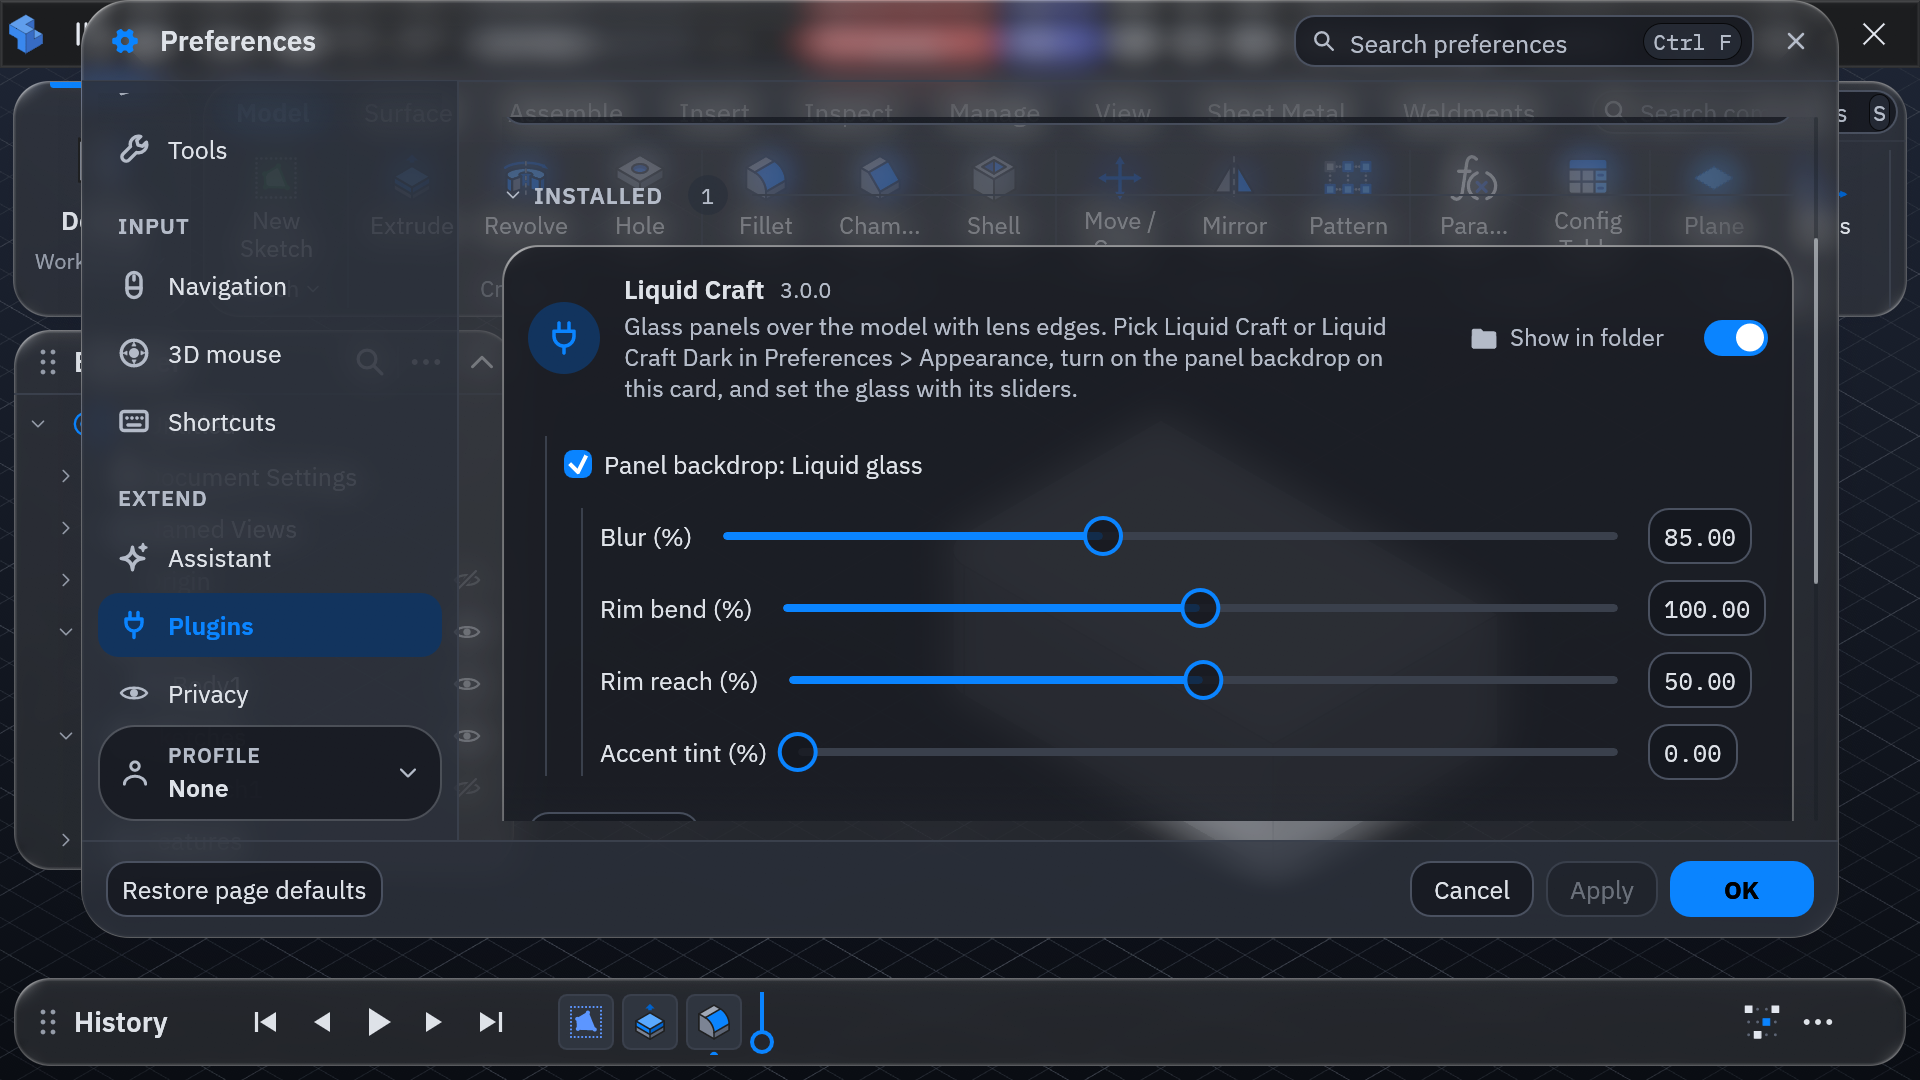
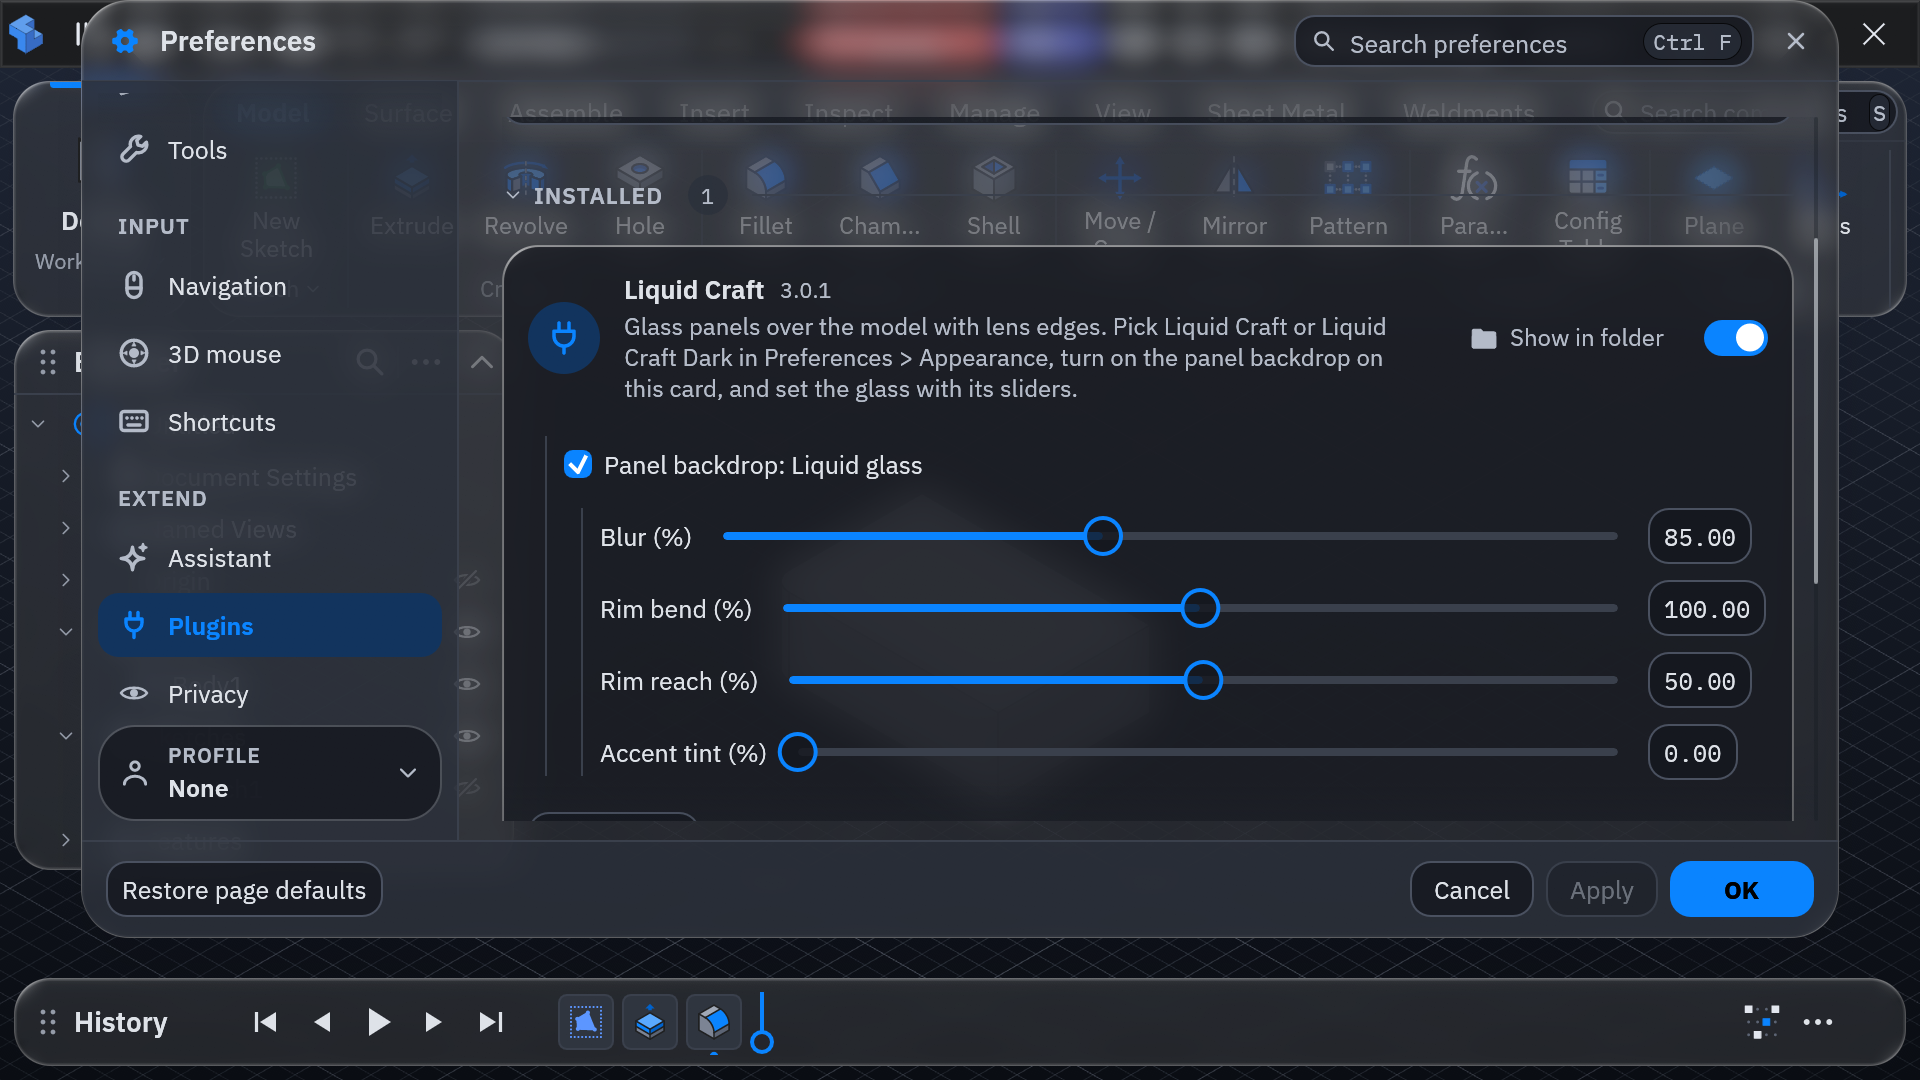
liquid-craft 3.0.1: README explains the idle view toolbar fade (not an app bug)

Changed region(s): [[0.5938, 0.7333, 0.7188, 0.7944]]

diff --git a/README.md b/README.md
@@ -1,4 +1,4 @@
-# Liquid Craft 3.0.0
+# Liquid Craft 3.0.1
 
 ![screenshot](screenshots/showcase-dark.png)
 
@@ -45,16 +45,13 @@ The card shows the values as plain numbers with two decimals.
 - No text colour flip or halo: text does not change colour with the brightness behind it.
   The theme fills were made more transparent so text stays readable on both themes.
 - Light theme only, legibility (`liquid-craft.json`, before -> after): the tab title and app bar
-  labels use `app_bar_text` #2c3340 (was the light base's #e6eaf2, light text on a dark title bar); the ribbon group captions
-  use `text_dim` #3a404c (was the light base's #6e7480); the ribbon `toolbar` fill is #ffffffc0
-  (was #ffffff3e, the SPEC value) and the floating view toolbar's `overlay` fill is #ffffffc0
-  (was #ffffff43). The app bar fill `app_bar` stays #f2f4f858. The dark theme is unchanged.
-  Light theme: the floating view toolbar at the bottom centre is still drawn through the glass pass,
-  because on SolidCraft 0.49.1 the glass panel pass is drawn over that bar's icons and labels when
-  its fill is see-through. Over a busy background its icons and labels do not show. Raising
-  `overlay` (tested up to #ffffffff), `panel` and `timeline` did not change it, so the fill that
-  drives this bar is not one of these keys. The ribbon captions are readable but lighter than the
-  rest of the text.
+  labels use `app_bar_text` #2c3340 (was the light base's #e6eaf2, light text on a dark title bar);
+  the ribbon group captions use `text_dim` #3a404c (was the light base's #6e7480); the ribbon
+  `toolbar` fill is #ffffffc0 (was #ffffff3e, the SPEC value). The floating view toolbar at the
+  bottom centre fades to 45 % when the pointer is away from it, and at that strength its icons and
+  labels are faint over a busy background. It is fully readable when the pointer is on it. To keep
+  it readable all the time, set Preferences > Navigation > When idle to Always visible. The dark
+  theme is unchanged.
 - The clear/accent switch is now the Accent tint slider (0 to 100 %).
 - Glass applies only to panels whose theme fill is see-through. The dimmed backing behind a
   modal dialog keeps the app's plain blur. Nothing is drawn in safe-graphics mode or when the
